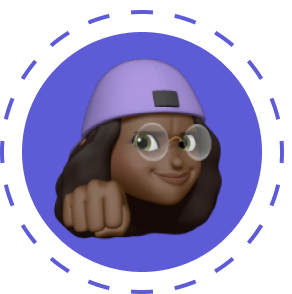
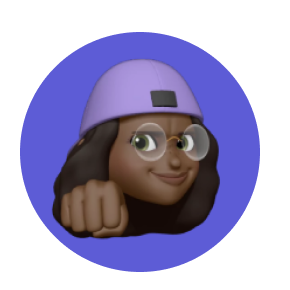
Added animations, 90% complete

diff --git a/src/components/Community.tsx b/src/components/Community.tsx
@@ -4,38 +4,40 @@ import { star1, star2 } from "../assets/icon";
 import { join, community } from "../assets/images";
 
 const Community: React.FC = () => {
-  const elementRef = useRef<HTMLDivElement>(null);
+  const elementRef = useRef<HTMLImageElement>(null);
   const [completion, setCompletion] = useState(0);
 
   useEffect(() => {
     const element = elementRef.current;
     let top: number;
-    if (element) {
-      top = element.getBoundingClientRect().top;
-      // Perform your logic based on the rect values
-      if (document.documentElement.scrollTop >= top) {
-        const updateScrollCompletion = () => {
+    const checkImage = () => {
+      if (element) {
+        top = element.offsetTop;
+        // Check if the element is in view
+        if (document.documentElement.scrollTop >= top) {
           const height = document.documentElement.clientHeight;
-          let scroll = top + document.documentElement.scrollTop;
+          let scroll = document.documentElement.scrollTop;
           setCompletion((scroll / height) * 100);
-        };
-        window.addEventListener("scroll", updateScrollCompletion);
+          window.addEventListener("scroll", checkImage);
+        }
       }
-    }
+    };
+    window.addEventListener("scroll", checkImage);
   }, []);
 
   return (
     <div className="relative flex flex-col items-center justify-center mb-8 cursor-pointer xmd:flex-row">
       <div className="relative flex items-center justify-center w-full xmd:w-3/5">
-        <div ref={elementRef} className="xmd:-ml-20">
+        <div className="xmd:-ml-20">
           <img
             src={join}
-            className="object-cover w-[501px] "
+            className="object-cover w-[271px] sm:w-[371px] "
             alt="Join the community"
           />
           <img
+            ref={elementRef}
             src={community}
-            className="object-cover w-[360px]"
+            className="object-cover w-[192px] sm:w-[250px]"
             style={{
               transform: `translate(${completion}px, -10px)`,
             }}
@@ -44,11 +46,19 @@ const Community: React.FC = () => {
         </div>
 
         <div className=" absolute w-[20px] sm:w-[40px] object-cover left-0 top-8 xmd:top-12">
-          <img src={star2} alt={`star logo`} className="object-cover w-full " />
+          <img
+            src={star2}
+            alt={`star logo`}
+            className="object-cover w-full animate-float max-sm:[36px]"
+          />
         </div>
 
         <div className=" absolute right-2  w-[20px] sm:w-[40px] object-cover sm:right-8 md:right-12 xmd:right-24 top-8 xmd:top-20">
-          <img src={star1} alt={`star logo`} className="object-cover w-full " />
+          <img
+            src={star1}
+            alt={`star logo`}
+            className="object-cover w-full animate-float max-sm:[36px]"
+          />
         </div>
       </div>
       <div className="flex flex-col items-center justify-center w-full mt-8 xmd:w-2/5 xmd:items-start xmd:mt-0 ">
@@ -56,8 +66,16 @@ const Community: React.FC = () => {
           className=" mb-6 font-gilroy text-[#8C8C8C] font-normal
                         leading-[21px] sm:leading-[32px] text-[14px] sm:text-[18px] sm:max-w-sm md:text-[22px] text-center xmd:text-start max-w-xs md:max-w-lg xmd:max-w-md"
         >
-          Be a part of our ever growing community by joining our Telegram
-          channel and getting periodic updates.
+          <div className="max-lg:hidden">
+            Be a part of our ever growing community by joining our Telegram
+            channel and getting periodic updates.
+          </div>
+          <div className="lg:hidden">
+            Be a part of our ever growing
+            <br /> community by joining our Telegram
+            <br />
+            channel and getting periodic updates.
+          </div>
         </p>
 
         <div>

diff --git a/src/components/JobHero.tsx b/src/components/JobHero.tsx
@@ -1,10 +1,10 @@
 import arrow from "../assets/Arrow 3.svg";
 import pattern from "../assets/Frame 48.svg";
-import art from "../assets/art1.png";
+import art from "../assets/art.png";
 
 const JobHero = () => {
   return (
-    <div className="relative w-full bg-[url('assets/pattern.png')] bg-no-repeat bg-center bg-cover h-screen overflow-hidden">
+    <div className="relative w-full bg-[url('../assets/pattern.png')] bg-no-repeat bg-center bg-cover h-screen overflow-hidden">
       <div className="absolute wideScreen:right-0 -right-36  xl:-right-9 sm:top-[156px] max-md:bottom-[134px] max-smallest:bottom-[94px] max-sm:-right-9">
         <img src={arrow} alt="shapes" className="h-24 sm:h-full" />
       </div>
@@ -12,8 +12,8 @@ const JobHero = () => {
         <img src={pattern} alt="shapes" className="h-[143px]" />
       </div>
       <div className="w-full h-full">
-        <div className="xl:ps-[104px] pt-[236px] max-md:pt-[189px] max-xl:px-[65px] pb-[120px] flex justify-between items-center max-md:items-end wideScreen:pe-[269px] xl:pe-[175px] max-md:px-7 max-md:flex-col">
-          <div className="xl:me-40 me-12 max-md:me-0">
+        <div className="xl:ps-[104px] pt-[236px] max-md:pt-[189px] max-xl:px-[65px] pb-[120px] flex justify-between items-center max-md:items-end wideScreen:pe-[280px] xl:pe-[175px] max-md:px-7 max-md:flex-col">
+          <div className="xl:me-44 me-16 max-md:me-0">
             <p className="font-gelion text-[20px]/6 text-primary font-normal tracking-[0.08em] mb-2 max-md:text-[20px]/6 ps-[2px]">
               JOB OPPORTUNITIES
             </p>
@@ -25,11 +25,12 @@ const JobHero = () => {
               empowering Genz in technology across Africa.{" "}
             </p>
           </div>
-          <img
-            src={art}
-            className=" h-[146px] max-md:h-[103px] max-md:me-[34px] max-md:mt-8"
-            alt="art"
-          />
+          <div className="relative md:-bottom-2 bottom-4 right-5 w-24 h-24 md:w-40 md:h-40 max-md:me-[34px] max-md:mt-8">
+            <div className="border-2 w-24 h-24 md:w-32 md:h-32 border-primary border-dashed rounded-full animate-spin-slow"></div>
+            <div className="absolute top-[8px] left-[8px] bg-primary rounded-full mx-auto">
+              <img className="w-20 md:w-28 h-20 md:h-28" src={art} alt="" />
+            </div>
+          </div>
         </div>
       </div>
     </div>

diff --git a/tailwind.config.js b/tailwind.config.js
@@ -24,10 +24,16 @@ export default {
           "0%": { transform: "translateX(-100%)" },
           "100%": { transform: "translateX(0)" },
         },
+        floatAnimation: {
+          "0%": { transform: "translateY(0)" },
+          "50%": { transform: "translateY(-20px)" },
+          "100%": { transform: "translateY(0)" },
+        },
       },
       animation: {
         "spin-slow": "spin 6s linear infinite",
         "slide-in": "slide-in 1s ease-out",
+        float: "floatAnimation 3s infinite ease-in-out;",
       },
       screens: {
         wideScreen: "1400px",

diff --git a/src/components/Header-B.tsx b/src/components/Header-B.tsx
@@ -43,7 +43,7 @@ const Header = () => {
             <img
               src={logo}
               alt="logo"
-              className=" h-[31px] cursor-pointer z-40"
+              className="relative h-[31px] cursor-pointer z-40"
             />
           </a>
           {/* Menu */}

diff --git a/src/pages/JobOpp.tsx b/src/pages/JobOpp.tsx
@@ -5,7 +5,9 @@ export const JobOpp = () => {
   return (
     <>
       <JobHero />
-      <Community />
+      <div className="bg-white px-[30px] sm:px-[100px] lg:px-[42px] xl:px-[102px]">
+        <Community />
+      </div>
     </>
   );
 };
